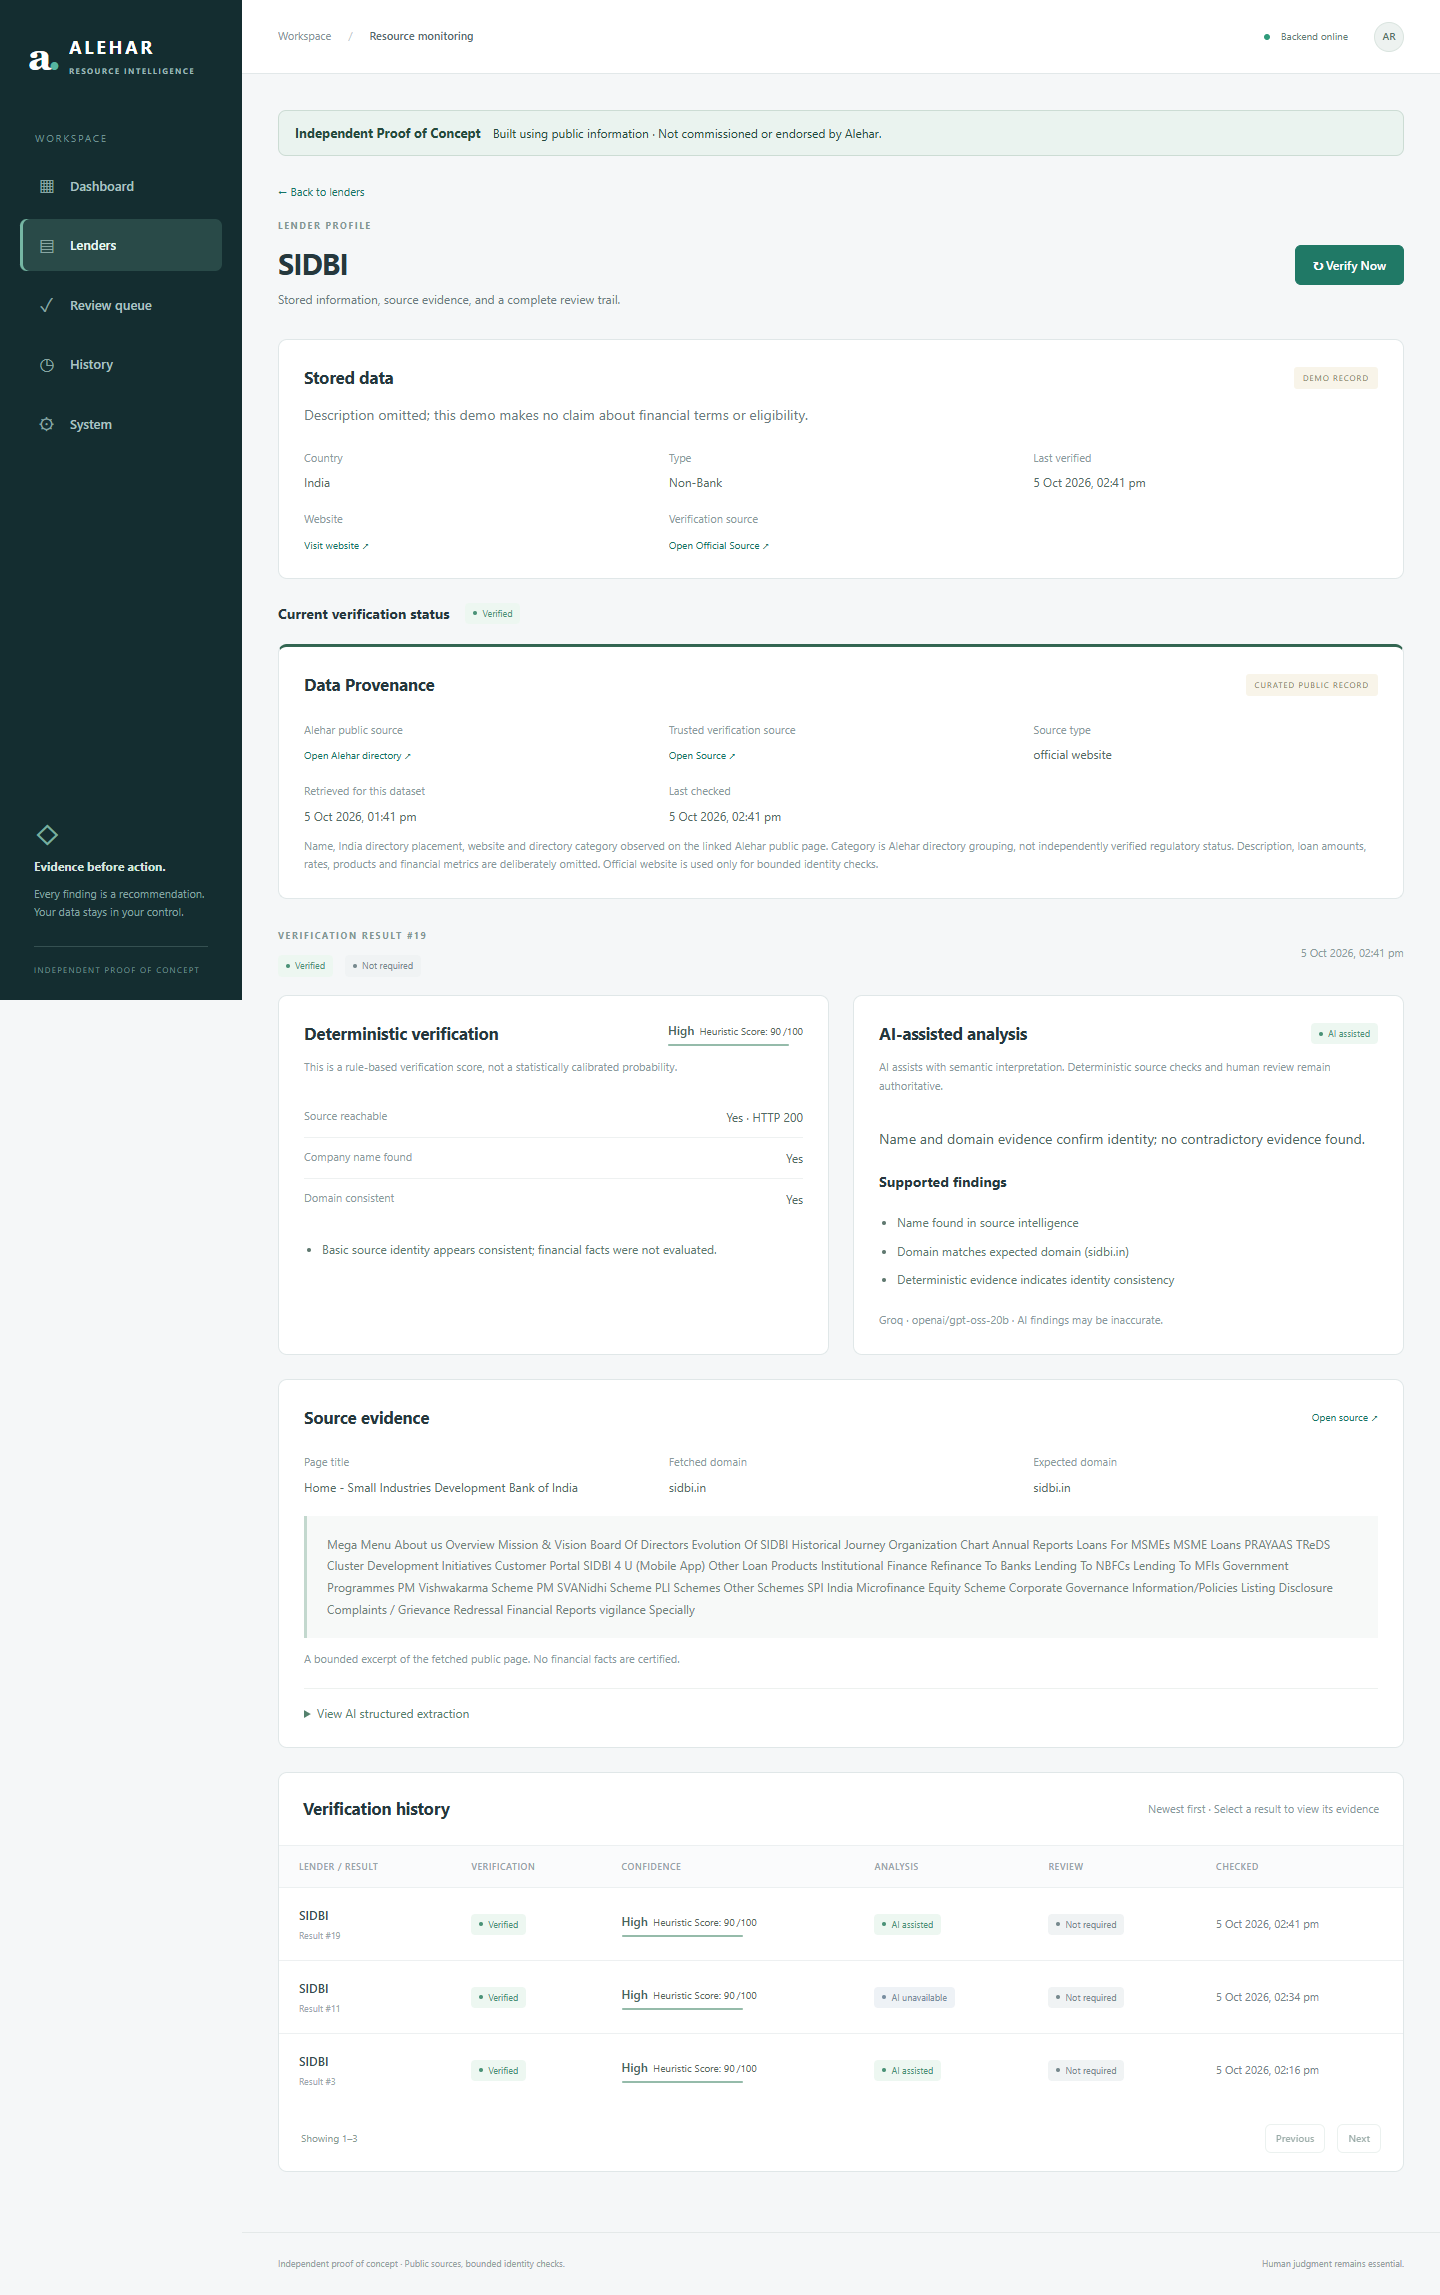
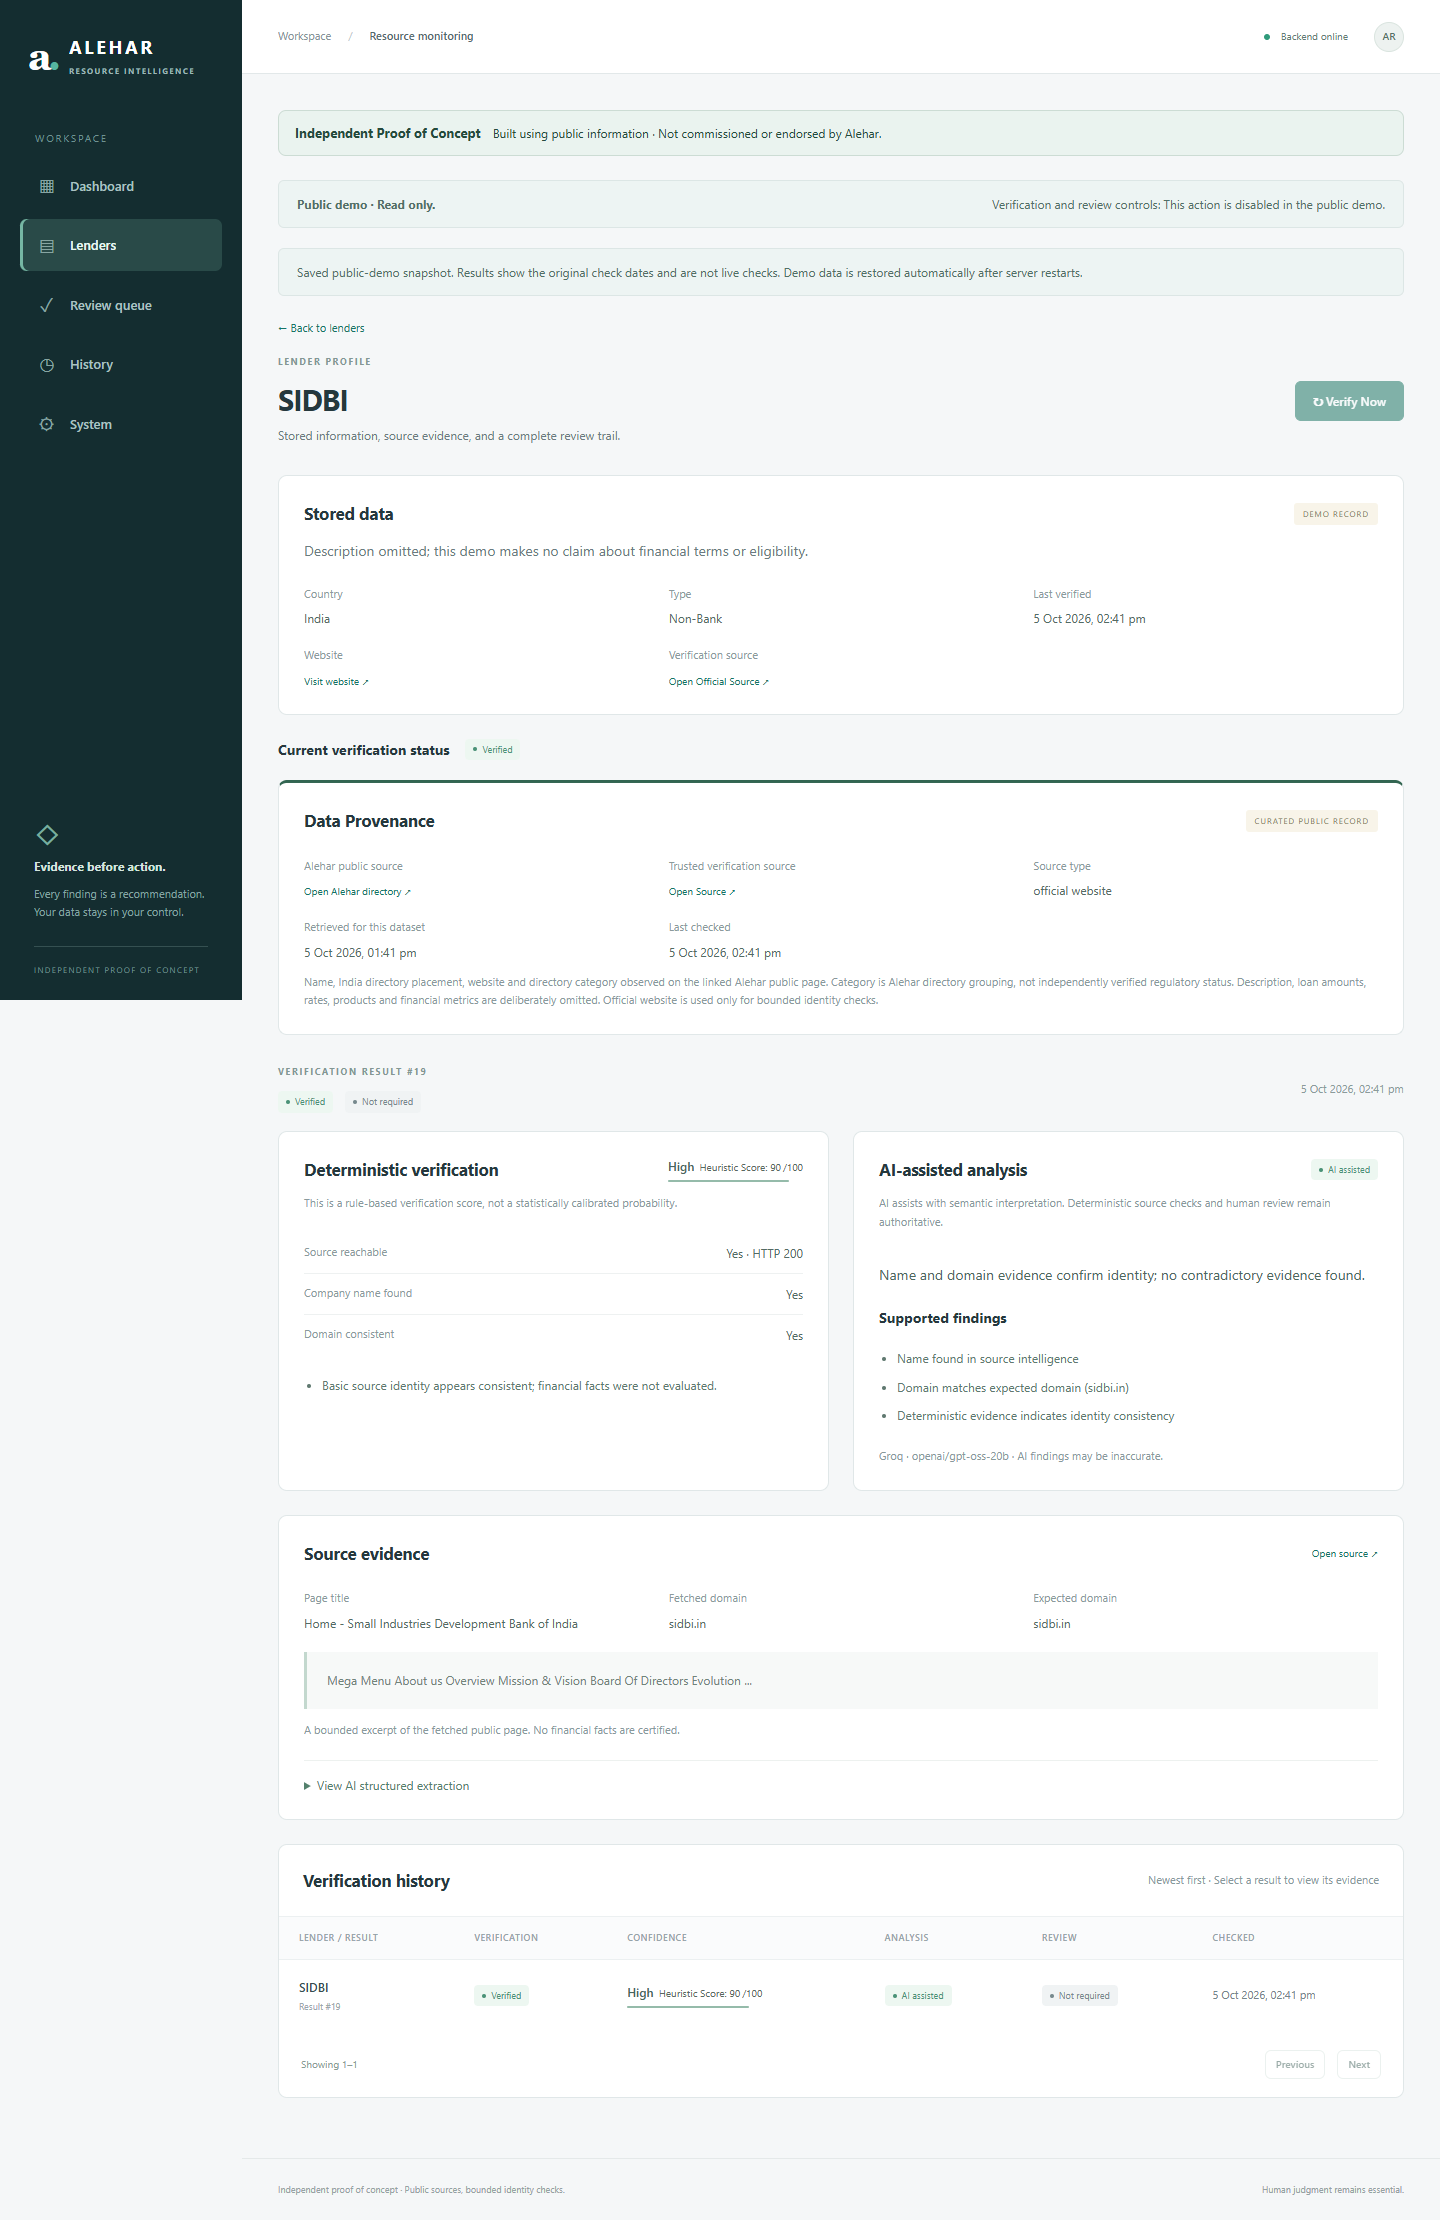
Document live deployment and verify anonymous public demo

diff --git a/README.md b/README.md
@@ -4,7 +4,7 @@ Independent AI-assisted proof-of-concept for monitoring and verifying public bus
 
 The system compares curated records against trusted public sources, performs deterministic verification, uses AI for semantic interpretation, and routes uncertain findings to human review.
 
-**Live demo:** Render Free + Vercel deployment in progress. **GitHub:** [cout1909/alehar-resource-intelligence](https://github.com/cout1909/alehar-resource-intelligence). **Video:** Pending recording.
+**Live demo:** [alehar-resource-intelligence.vercel.app](https://alehar-resource-intelligence.vercel.app). **Backend health:** [Render /health](https://alehar-resource-intelligence.onrender.com/health). **GitHub:** [cout1909/alehar-resource-intelligence](https://github.com/cout1909/alehar-resource-intelligence). **Video:** Pending recording.
 
 ![Dashboard with public-source verification and human review](docs/screenshots/dashboard.png)
 
@@ -142,13 +142,13 @@ npm.cmd run test:e2e
 Remove-Item Env:PUBLIC_BROWSER_TEST
 ```
 
-Playwright uses installed Microsoft Edge on Windows. On Linux, install Chromium with `npx playwright install --with-deps chromium`. The prepared GitHub workflow runs backend/build/browser checks; it has not run on GitHub yet and does not deploy anything.
+Playwright uses installed Microsoft Edge on Windows. On Linux, install Chromium with `npx playwright install --with-deps chromium`. The GitHub workflow runs backend/build/browser checks and passed remotely. It does not deploy anything.
 
 ## Docker and deployment
 
 The [Dockerfile](Dockerfile) uses Python slim, a non-root user, pinned dependencies, a healthcheck, one worker and safe public-demo defaults. The frontend builds as static assets with SPA fallback configuration for Vercel/Netlify.
 
-**DOCKER LOCAL VALIDATION BLOCKED:** Docker Desktop's engine was unavailable. Container build/run has not been validated. See [deployment instructions](docs/DEPLOYMENT.md) for commands, volume ownership, SQLite persistence, secret settings, rollback and the deployment acceptance checklist.
+Render successfully built and runs the Docker image. Production health, saved data, exact CORS, read-only guards, restart recovery and fresh incognito browser checks passed on 5 October 2026. Local Docker Desktop validation remains unavailable. See [deployment instructions](docs/DEPLOYMENT.md) for configuration and repeatable production checks.
 
 The owner approved a public GitHub repository, Render Free backend and Vercel frontend with a zero-cost budget. No paid disk or database is provisioned. `render.yaml` pins `plan: free` and enables `PUBLIC_DEMO_SNAPSHOT=true`: startup restores the eight curated records and bundled dated public findings into disposable SQLite without external calls. Restarting or losing the filesystem does not lose displayable demo results. Local persistence is unchanged because this option defaults to false.
 
@@ -165,7 +165,7 @@ The owner approved a public GitHub repository, Render Free backend and Vercel fr
 
 Only eight curated lenders and bounded page-identity signals are covered. Sites can block automated access, change content or require JavaScript. AI output can be inconsistent and provider quotas can trigger fallback. Omitted fields are not verified. Exact name matching can conservatively flag legitimate shortened brands. Historical AI output remains fallible even when source quotes passed validation. No financial recommendation or correctness guarantee is provided.
 
-The public deployment uses a reproducible snapshot instead of persistent storage. It displays historical checks, not continuous live monitoring. Render Free can sleep and cold-start; the UI allows up to 90 seconds for reads and explains the wait. Container/cloud validation, live URLs and video recording remain pending.
+The public deployment uses a reproducible snapshot instead of persistent storage. It displays historical checks, not continuous live monitoring. Render Free can sleep and cold-start; the UI allows up to 90 seconds for reads and explains the wait. Open the demo and wait for data to load just before sharing it. Video recording remains pending.
 
 Login, reviewer roles, attributed audit logs, approved/private datasets and approved updates are **future pilot features only after Alehar expresses interest**. Events, technology directories, notifications and reporting come only after pilot feedback. See [future pilot scope](docs/FUTURE_PILOT.md).
 

diff --git a/docs/PHASE3_VALIDATION.md b/docs/PHASE3_VALIDATION.md
@@ -1,6 +1,6 @@
-# Phase 3A local validation
+# Phase 3 validation
 
-Validated 5 October 2026. Local preparation is complete subject to the documented Docker-engine limitation. **Full Phase 3 is not complete: free deployment has been approved; external setup is in progress.**
+Validated 5 October 2026. Public GitHub, Render Free backend and Vercel frontend are deployed. Production API, anonymous incognito browsing, mobile layout and restart recovery passed. Video recording remains pending; local Docker Desktop remains unavailable.
 
 ## Baseline and final checks
 
@@ -16,8 +16,11 @@ Validated 5 October 2026. Local preparation is complete subject to the documente
 | Real-data browser check | Eight curated records with provenance; actual pages captured; no page errors or mutations during browsing; mobile fits viewport |
 | Static Python check | Ruff passed |
 | Publication scan | No matching credentials in eligible files or browser assets; required ignore rules present |
-| Docker | CLI available; Docker Desktop Linux engine unavailable; image build/run not performed |
-| GitHub CI | Prepared, not executed remotely |
+| Docker | Render cloud image build and startup passed; local Docker Desktop unavailable |
+| GitHub CI | Backend/build/browser workflow passed remotely |
+| Production API | Health, eight saved results, exact CORS, hidden docs, and all four mutation guards passed |
+| Incognito browser | Fresh Edge context without inherited cookies/login: routes, provenance, flagged explanation, disabled controls and mobile layout passed |
+| Render restart | All eight saved results identical before and after restart |
 
 ## Final real-source run
 
@@ -55,7 +58,7 @@ The frontend shares concurrent reads and does not initiate verification while br
 
 ## Outstanding external work
 
-**DOCKER LOCAL VALIDATION BLOCKED** until the Docker Desktop engine is available. Container configuration is prepared but unvalidated. Deployment and persistence must be tested on the selected provider after approval. Provider accounts, repository destination, domain and database decisions are still required. Video recording/upload is pending; draft scripts and screenshots are ready. No outreach was sent.
+Cloud deployment and container validation are complete. Local Docker Desktop validation remains blocked by the unavailable local engine. Video recording/upload is pending; draft scripts and production screenshots are ready. No outreach was sent.
 
 ## Free-hosting preparation
 

diff --git a/docs/DEPLOYMENT.md b/docs/DEPLOYMENT.md
@@ -2,6 +2,24 @@
 
 Target: public GitHub `cout1909/alehar-resource-intelligence`, Render Free Web Service, Vercel frontend, provider-generated URLs. Budget: zero. No paid disk or managed database is needed or authorized.
 
+## Live deployment
+
+- Frontend: https://alehar-resource-intelligence.vercel.app
+- Backend health: https://alehar-resource-intelligence.onrender.com/health
+- Repository: https://github.com/cout1909/alehar-resource-intelligence
+
+Deployed and tested on 5 October 2026. Render uses the Free plan in Singapore. Vercel production stores `VITE_API_BASE_URL=https://alehar-resource-intelligence.onrender.com`; Render allows exactly `https://alehar-resource-intelligence.vercel.app`. The production domain is accessible anonymously. Backend logs and frontend build logs were inspected. Eight saved results remained identical after a Render restart. Production screenshots were captured in a fresh browser context.
+
+To repeat production checks from `frontend` in PowerShell:
+
+```powershell
+$env:DEMO_API_URL='https://alehar-resource-intelligence.onrender.com'
+$env:DEMO_UI_URL='https://alehar-resource-intelligence.vercel.app'
+node e2e/production-smoke.mjs
+```
+
+The smoke test asserts read-only mode before attempting protected verification/review requests. Those requests must return 403 and preserve saved results. It also checks health, CORS, disabled docs, fresh incognito browsing, direct detail routes and disabled controls. `node e2e/capture-demo.mjs` additionally captures all main routes and checks mobile fit. Frontend deployments currently use the Vercel CLI from `frontend`; Render automatically deploys GitHub main.
+
 ## Safe re-creatable state
 
 Render's [free filesystem is ephemeral](https://render.com/docs/free). `PUBLIC_DEMO_SNAPSHOT=true` restores `data/alehar_demo_lenders.json` and `data/public_demo_results.json` into disposable SQLite on startup. The snapshot contains eight real public checks (7 verified, 1 review required), dated evidence, and successful AI or fallback explanations. It contains no review notes, credentials or private data. It is clearly labeled as a saved snapshot in the UI.
